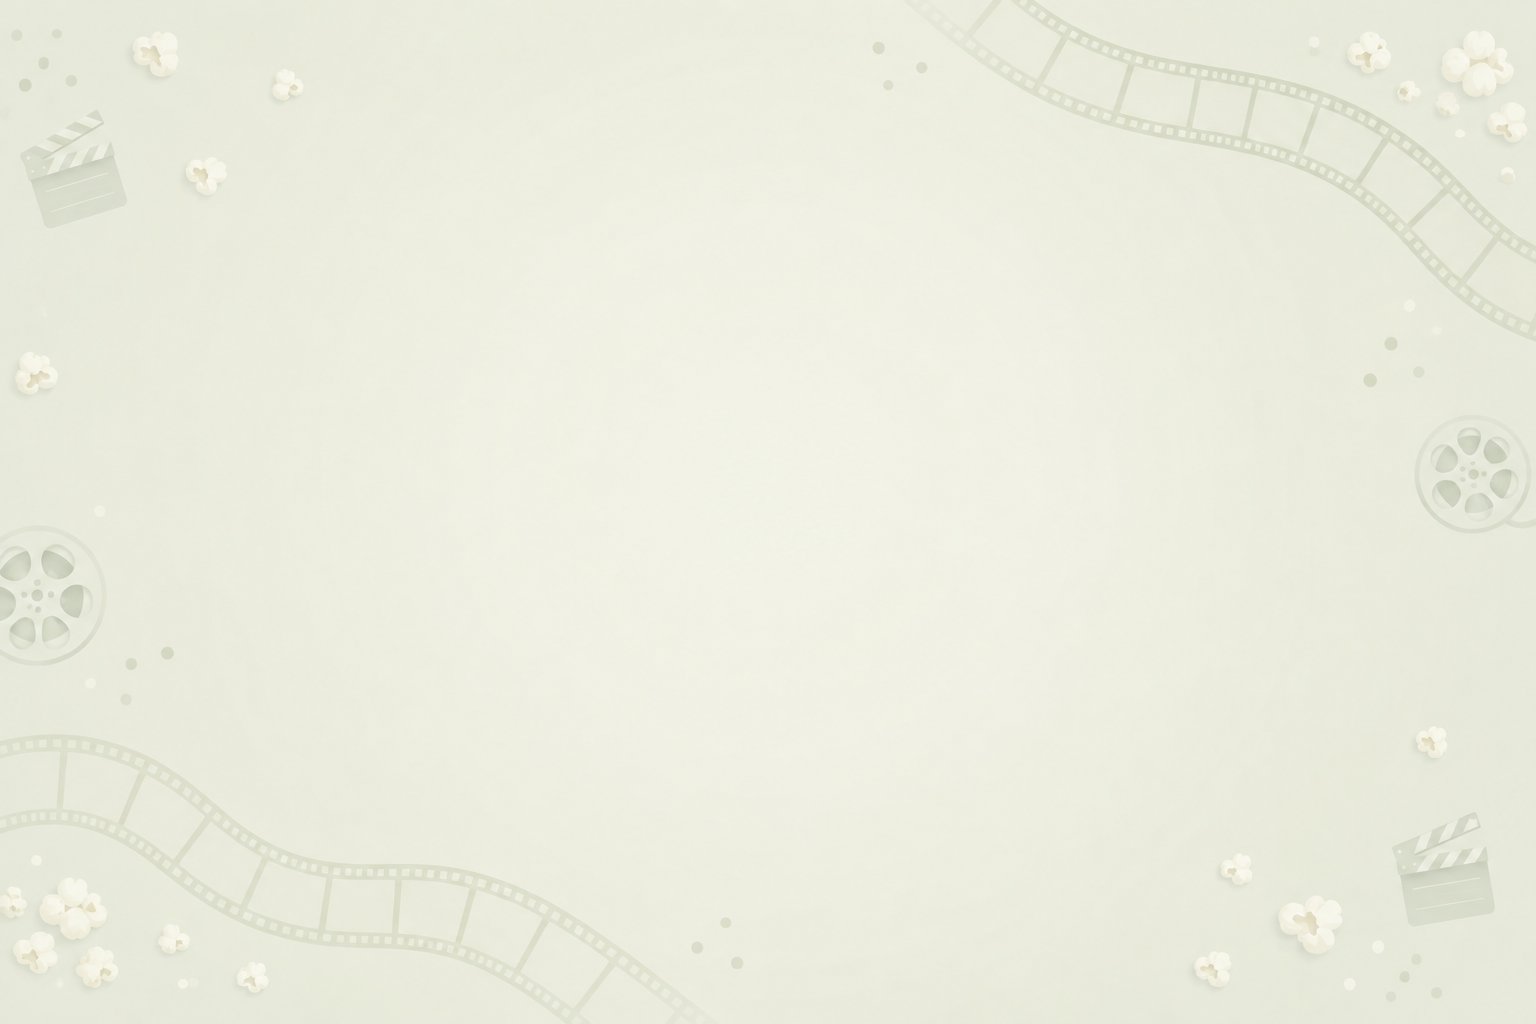
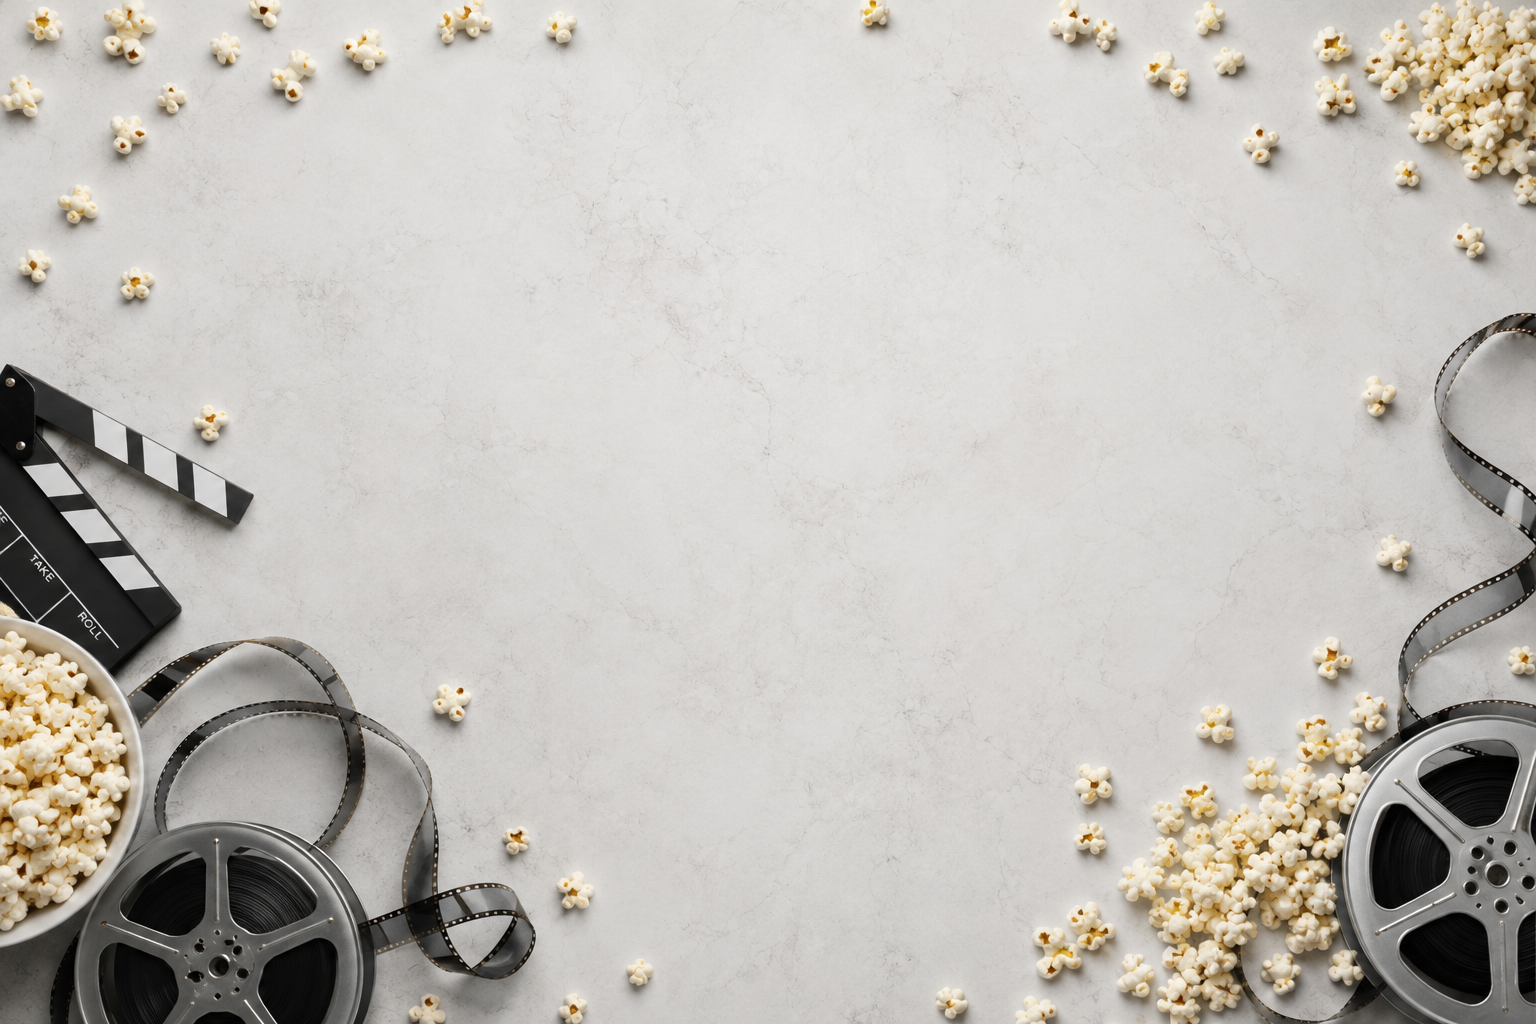
change name background

diff --git a/src/index.css b/src/index.css
@@ -2,7 +2,7 @@ body {
   margin: 0;
   font-family: "Nunito Sans", sans-serif;
   background-color: #f4f2eb;
-  background-image: url('./assets/movie-background2.png');
+  background-image: url('./assets/movie-background.png');
   color: #26332c;
   background-size: cover;
   background-position: center;
